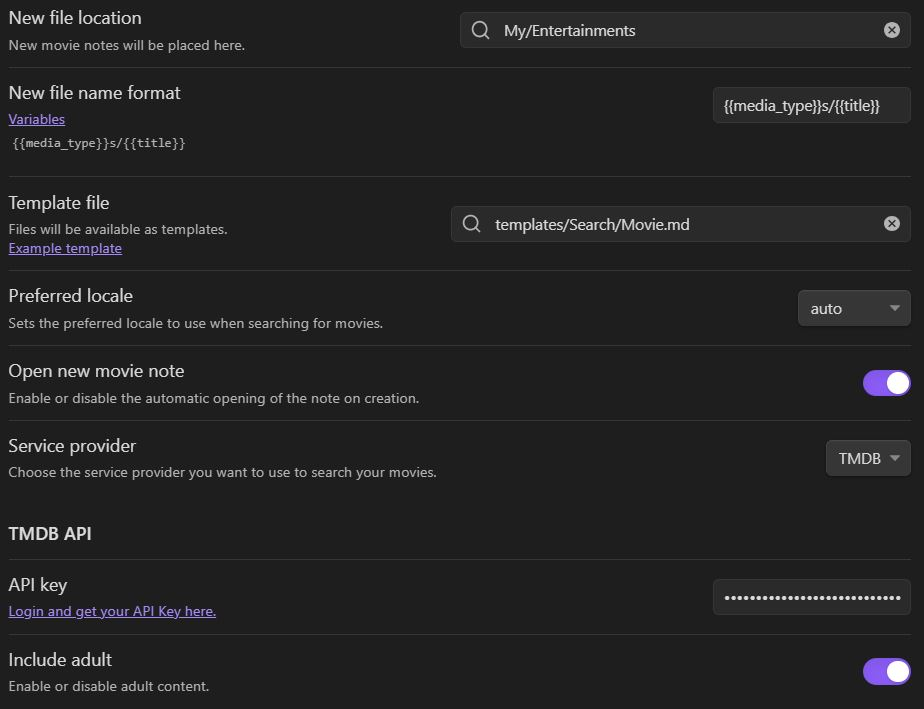
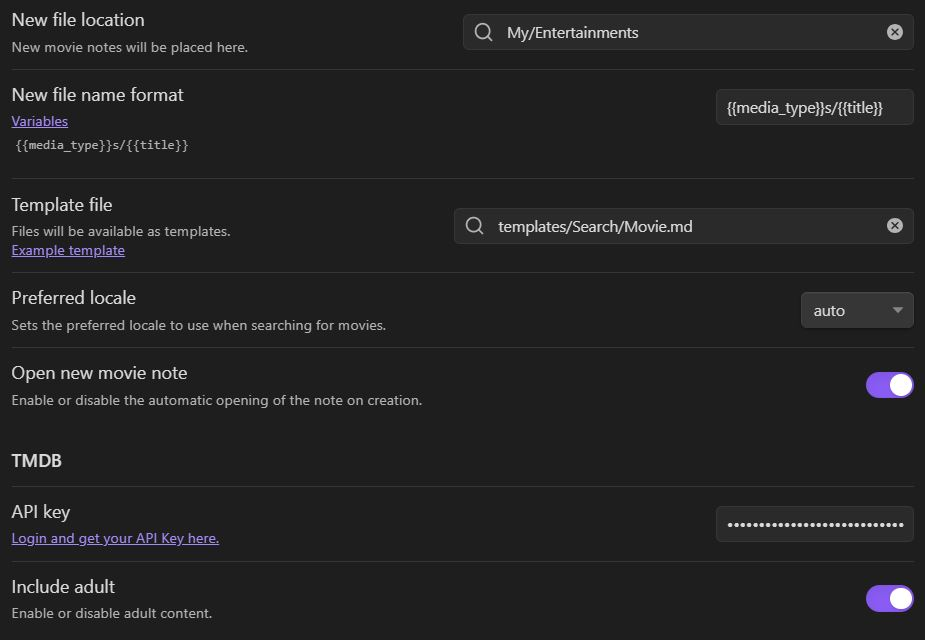
Remove (maybe for now) choosing the service provider in the settings
because only TMDB are available now.

Update the version to 1.1.1

diff --git a/src/settings/settings.ts b/src/settings/settings.ts
@@ -159,21 +159,8 @@ export class MovieSearchSettingTab extends PluginSettingTab {
 					await this.plugin.saveSettings();
 				}),
 			);
-		new Setting(containerEl)
-			.setName("Service provider")
-			.setDesc("Choose the service provider you want to use to search your movies.")
-			.setClass("movie-search-plugin__settings--service_provider")
-			.addDropdown(dropDown => {
-				dropDown.addOption(ServiceProvider.tmdb, ServiceProvider.tmdb);
-				dropDown.setValue(this.plugin.settings?.service_provider ?? ServiceProvider.tmdb);
-				dropDown.onChange(async value => {
-					const new_value = value as ServiceProvider;
-					this.settings["service_provider"] = new_value;
-					await this.plugin.saveSettings();
-				});
-			});
 		// API Settings
-		new Setting(containerEl).setName(`${this.plugin.settings.service_provider.toUpperCase()} API`).setHeading();
+		new Setting(containerEl).setName("TMDB").setHeading();
 
 		const APISettings: Setting[] = [];
 

diff --git a/README.md b/README.md
@@ -112,21 +112,17 @@ Set the preferred locale for the movie search. The default is 'auto', which mean
 
 Enable or disable the opening of the new movie note after creation.
 
-### Service Provider
+### TMDB Settings
 
-You can set up the services that you use to search for movies. Only TMDB are available now.
-
-#### TMDB API Settings
-
-##### TMDB API Key
+#### API Key
 
 Set the API key for TMDB.
 
 > You can get an API key from [developer.themoviedb.org](https://developer.themoviedb.org/reference/intro/authentication).
 
-> You can use both "Access Token Auth" (JWT) and "API Key Auth".
+> You can use either "Access Token Auth" (JWT) or "API Key Auth".
 
-##### Include adult
+#### Include adult
 
 Enable or disable the inclusion of adult content in the search results.
 
